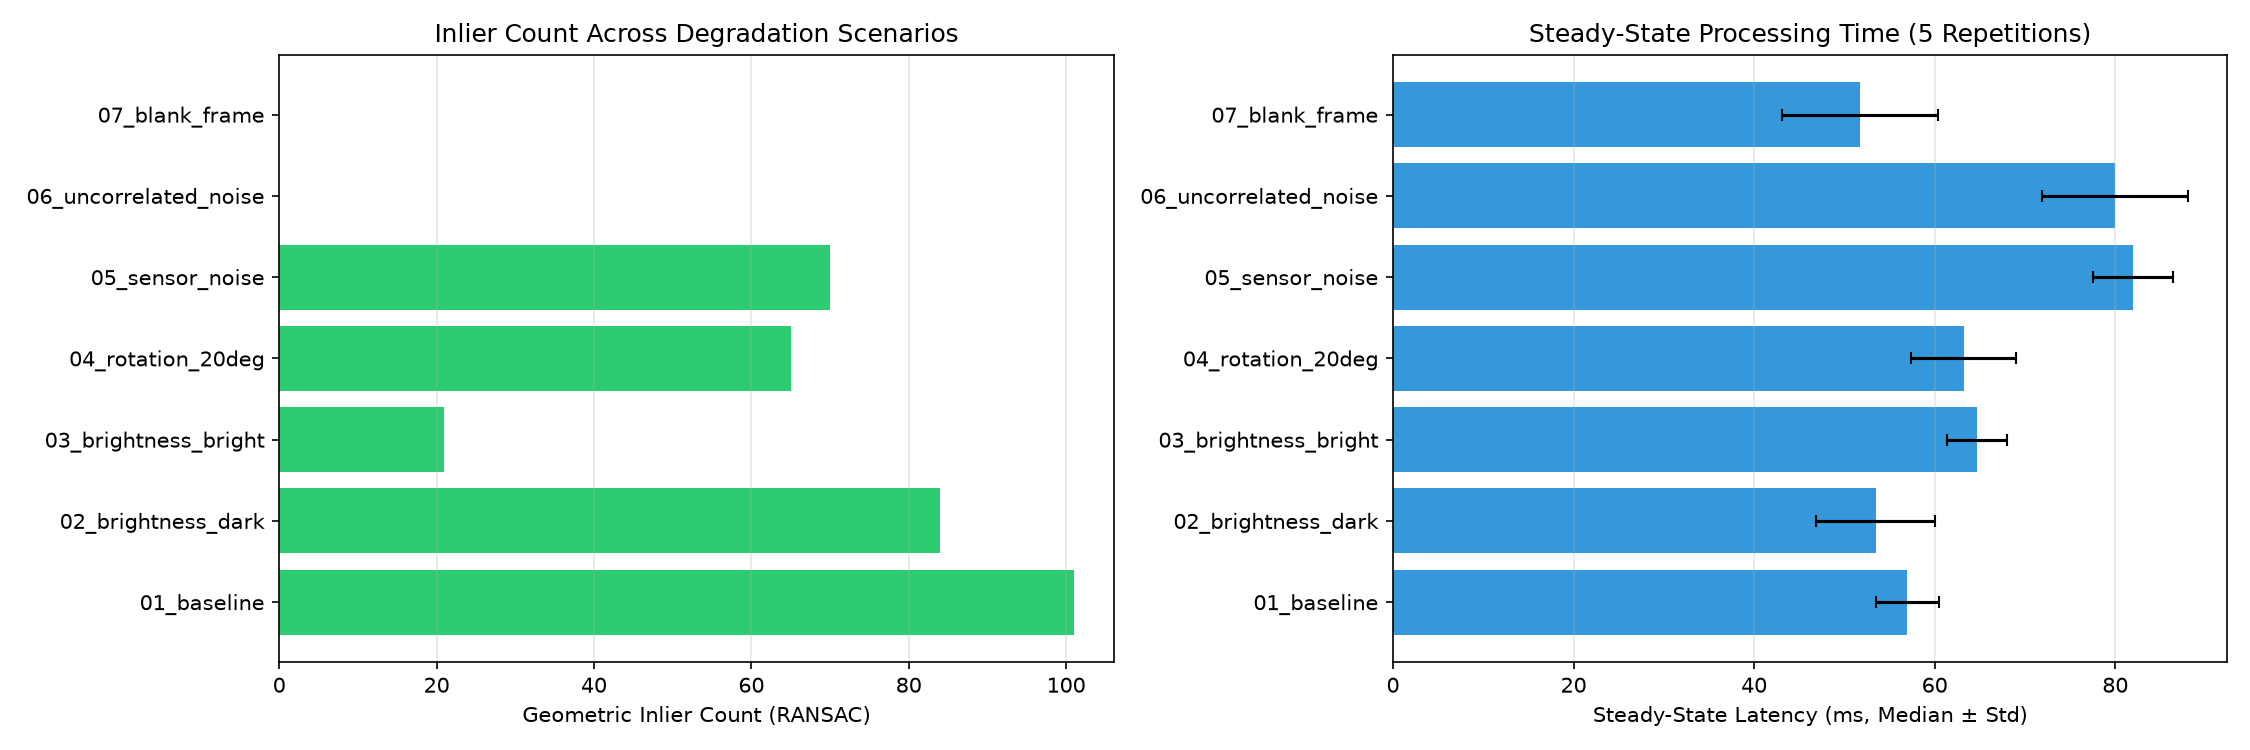
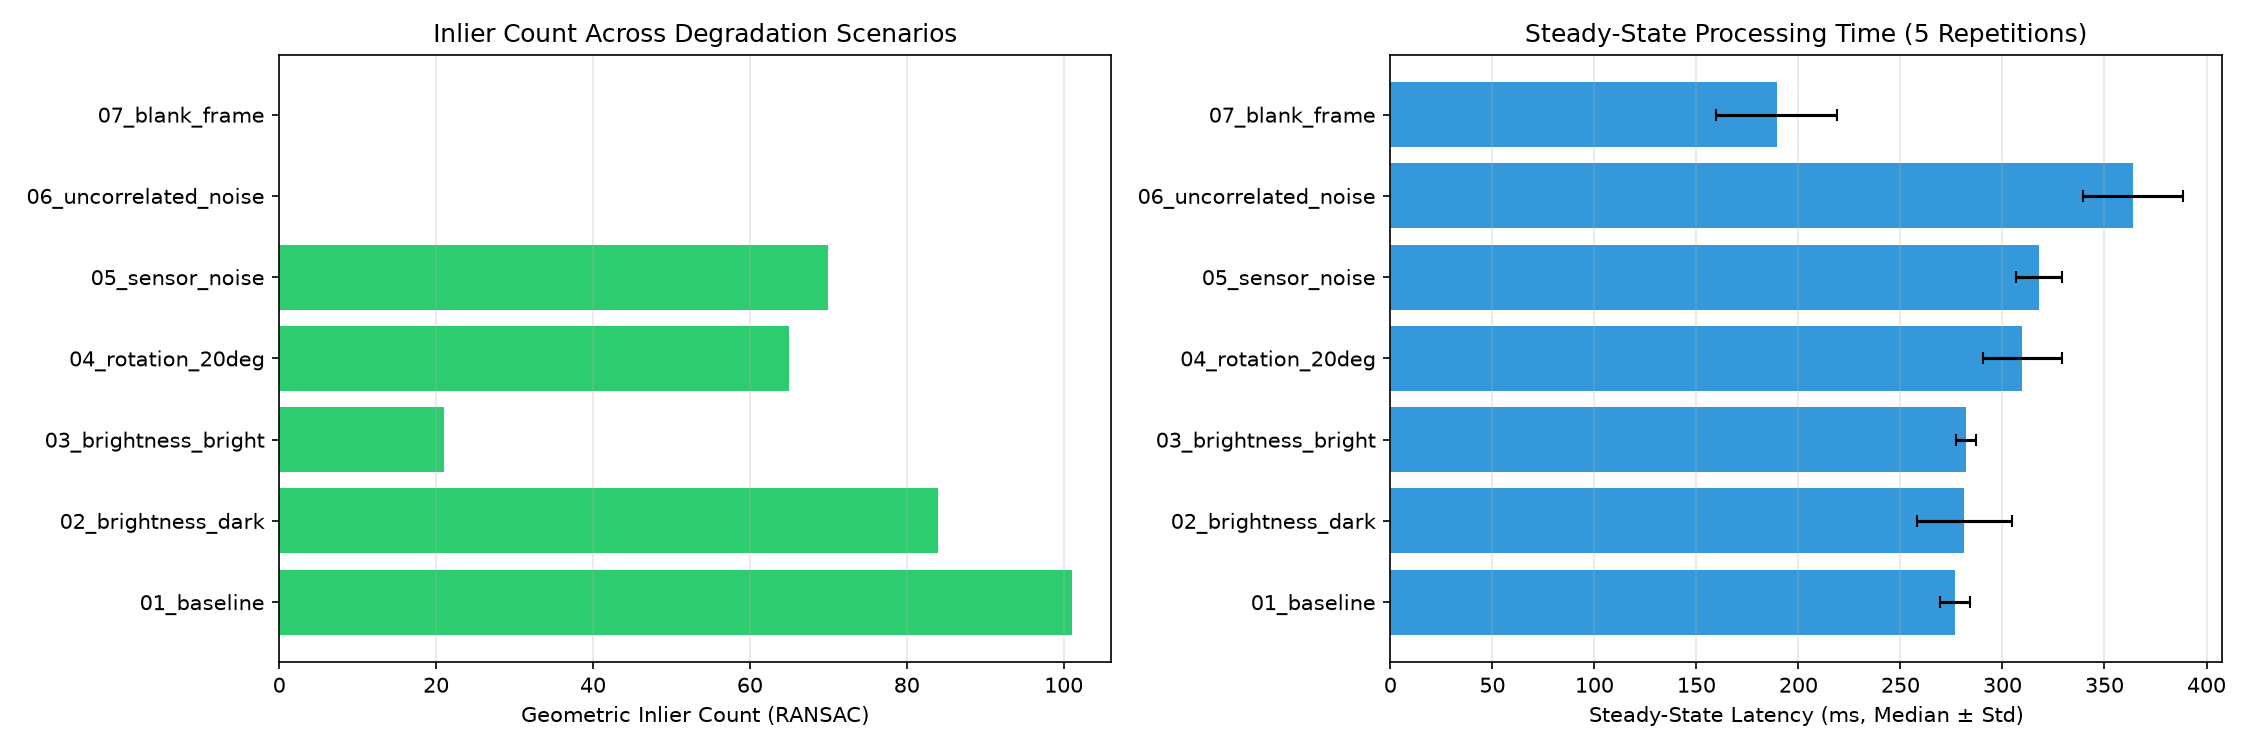
Quality Audit: Added interactive trial correspondence viewer, batch runner, and generated match evidence plots

diff --git a/vision_localization_research/src/vision_loc/dashboard_app.py b/vision_localization_research/src/vision_loc/dashboard_app.py
@@ -227,10 +227,34 @@ st.write(
     "Image correspondence alone does not establish geographic localization without validated sensor scale and orientation."
 )
 
-if plots_path.is_file():
-    st.image(str(plots_path), caption="Benchmark Performance Summary: Inlier Counts & Steady-State Latencies", use_container_width=True)
-else:
-    st.info("Benchmark summary plot not found. Run `scripts/run_benchmarks.py` to regenerate.")
+tab1, tab2 = st.tabs(["🖼 Inspect Trial Correspondence", "📊 Benchmark Performance Summary"])
+
+with tab1:
+    selected_pair_id = st.selectbox(
+        "Select Trial to Inspect:",
+        [r.pair_id for r in records],
+        help="Select any trial to view actual feature correspondence lines between query and reference."
+    )
+    selected_record = next(r for r in records if r.pair_id == selected_pair_id)
+    vis_img_path = project_root / "experiments" / "plots" / f"matches_{selected_pair_id}.png"
+
+    if vis_img_path.is_file():
+        st.image(
+            str(vis_img_path),
+            caption=f"Visual Correspondence for {selected_pair_id} ({selected_record.category}) — {selected_record.geometric_inliers} Inliers",
+            use_container_width=True
+        )
+    else:
+        if selected_record.status == "SUCCESS":
+            st.info(f"Visual plot for {selected_pair_id} not yet generated. Run `scripts/run_benchmarks.py` to generate.")
+        else:
+            st.warning(f"Trial '{selected_pair_id}' status is {selected_record.status} (0 inliers). No correspondence lines exist as false matches were rejected.")
+
+with tab2:
+    if plots_path.is_file():
+        st.image(str(plots_path), caption="Benchmark Performance Summary: Inlier Counts & Steady-State Latencies", use_container_width=True)
+    else:
+        st.info("Benchmark summary plot not found. Run `scripts/run_benchmarks.py` to regenerate.")
 
 st.markdown("---")
 

diff --git a/vision_localization_research/scripts/run_benchmarks.py b/vision_localization_research/scripts/run_benchmarks.py
@@ -63,6 +63,15 @@ def main():
     for p in test_pairs:
         trial = evaluate_trial(matcher, p, synthetic_georef, timing_repeats=timing_repeats)
         results.append(trial)
+
+        # Save correspondence visual evidence if matches exist
+        if trial.status == "SUCCESS":
+            _, kp_q, kp_r, inliers, _ = matcher.match(p["query"], p["reference"])
+            vis_file = plots_dir / f"matches_{trial.pair_id}.png"
+            matcher.draw_matches_visualization(
+                p["query"], kp_q, p["reference"], kp_r, inliers, max_matches_to_draw=40, save_path=vis_file
+            )
+
         rmse_str = f"{trial.pixel_reprojection_rmse:.2f} px" if trial.pixel_reprojection_rmse is not None else "N/A"
         time_str = f"{trial.steady_state_latency_median_ms:.1f} ± {trial.steady_state_latency_std_ms:.1f} ms"
         print(f"      Trial {trial.pair_id:<28} | Status: {trial.status:<20} | Inliers: {trial.geometric_inliers:<3} | RMSE: {rmse_str:<9} | Time: {time_str}")

diff --git a/vision_localization_research/experiments/benchmark_report.md b/vision_localization_research/experiments/benchmark_report.md
@@ -6,8 +6,8 @@
 - **Total Pairs Tested:** 7
 - **Sample Match Rate:** 71.4%
 - **Timing Repetitions:** 5 steady-state passes (after 1 warmup pass)
-- **Median Steady-State Latency:** 63.21 ms
-- **95th Percentile Latency (P95):** 81.36 ms
+- **Median Steady-State Latency:** 282.12 ms
+- **95th Percentile Latency (P95):** 350.17 ms
 - **Median Independent Pixel RMSE:** 2.131 pixels (across 25 independent test grid points)
 - **95th Percentile Pixel RMSE (P95):** 13.214 pixels
 - **Median Synthetic Grid Scale Error:** 1.066 meters (at synthetic GSD=0.5m/px)
@@ -17,10 +17,10 @@
 
 | Pair ID | Category | Status | Inliers | Pixel RMSE (px) | Synthetic Grid Err (m) | Steady-State Latency (ms) |
 | :--- | :--- | :--- | :--- | :--- | :--- | :--- |
-| `pair_01_baseline` | Baseline | `SUCCESS` | 101 | 0.88 | 0.44 | 56.96 ± 3.51 |
-| `pair_02_brightness_dark` | Illumination | `SUCCESS` | 84 | 0.69 | 0.35 | 53.45 ± 6.63 |
-| `pair_03_brightness_bright` | Illumination | `SUCCESS` | 21 | 15.84 | 7.92 | 64.67 ± 3.31 |
-| `pair_04_rotation_20deg` | Geometric | `SUCCESS` | 65 | 2.72 | 1.36 | 63.21 ± 5.79 |
-| `pair_05_sensor_noise` | Sensor Noise | `SUCCESS` | 70 | 2.13 | 1.07 | 81.97 ± 4.45 |
-| `pair_06_uncorrelated_noise` | Hard Negative | `NO_CORRESPONDENCE` | 0 | N/A | N/A | 79.93 ± 8.1 |
-| `pair_07_blank_frame` | Hard Negative | `INSUFFICIENT_FEATURES` | 0 | N/A | N/A | 51.71 ± 8.62 |
+| `pair_01_baseline` | Baseline | `SUCCESS` | 101 | 0.88 | 0.44 | 276.78 ± 7.23 |
+| `pair_02_brightness_dark` | Illumination | `SUCCESS` | 84 | 0.69 | 0.35 | 281.38 ± 23.42 |
+| `pair_03_brightness_bright` | Illumination | `SUCCESS` | 21 | 15.84 | 7.92 | 282.12 ± 4.84 |
+| `pair_04_rotation_20deg` | Geometric | `SUCCESS` | 65 | 2.72 | 1.36 | 309.74 ± 19.34 |
+| `pair_05_sensor_noise` | Sensor Noise | `SUCCESS` | 70 | 2.13 | 1.07 | 317.91 ± 11.27 |
+| `pair_06_uncorrelated_noise` | Hard Negative | `NO_CORRESPONDENCE` | 0 | N/A | N/A | 363.99 ± 24.31 |
+| `pair_07_blank_frame` | Hard Negative | `INSUFFICIENT_FEATURES` | 0 | N/A | N/A | 189.43 ± 29.67 |

diff --git a/vision_localization_research/README.md b/vision_localization_research/README.md
@@ -25,6 +25,7 @@ vision_localization_research/
 ├── requirements.txt        # Pinned dependencies
 ├── pyproject.toml          # Build and test configuration
 ├── run_dashboard.bat       # One-click Windows dashboard launcher
+├── run_benchmarks.bat      # One-click Windows benchmark runner
 ├── experiments/            # Benchmark CSV, plots, and markdown summaries
 ├── scripts/
 │   └── run_benchmarks.py   # Automated reproducible benchmark runner
